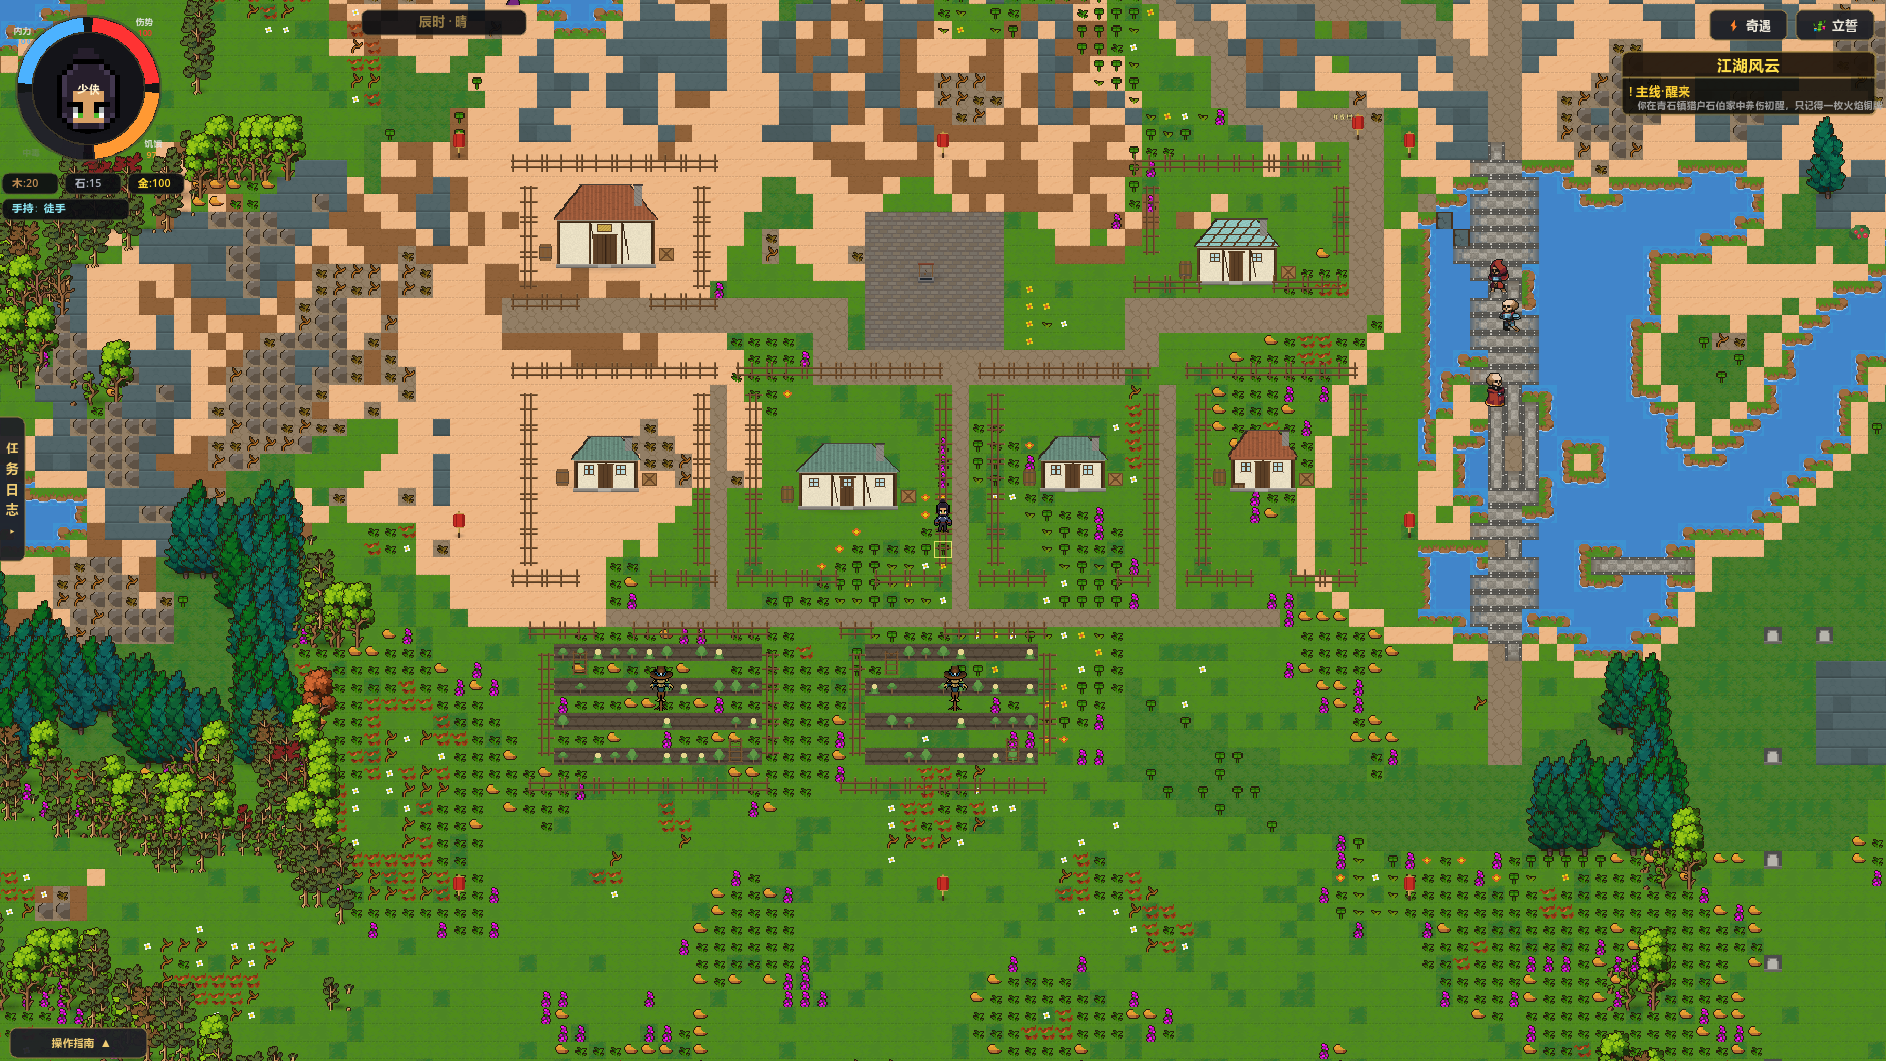
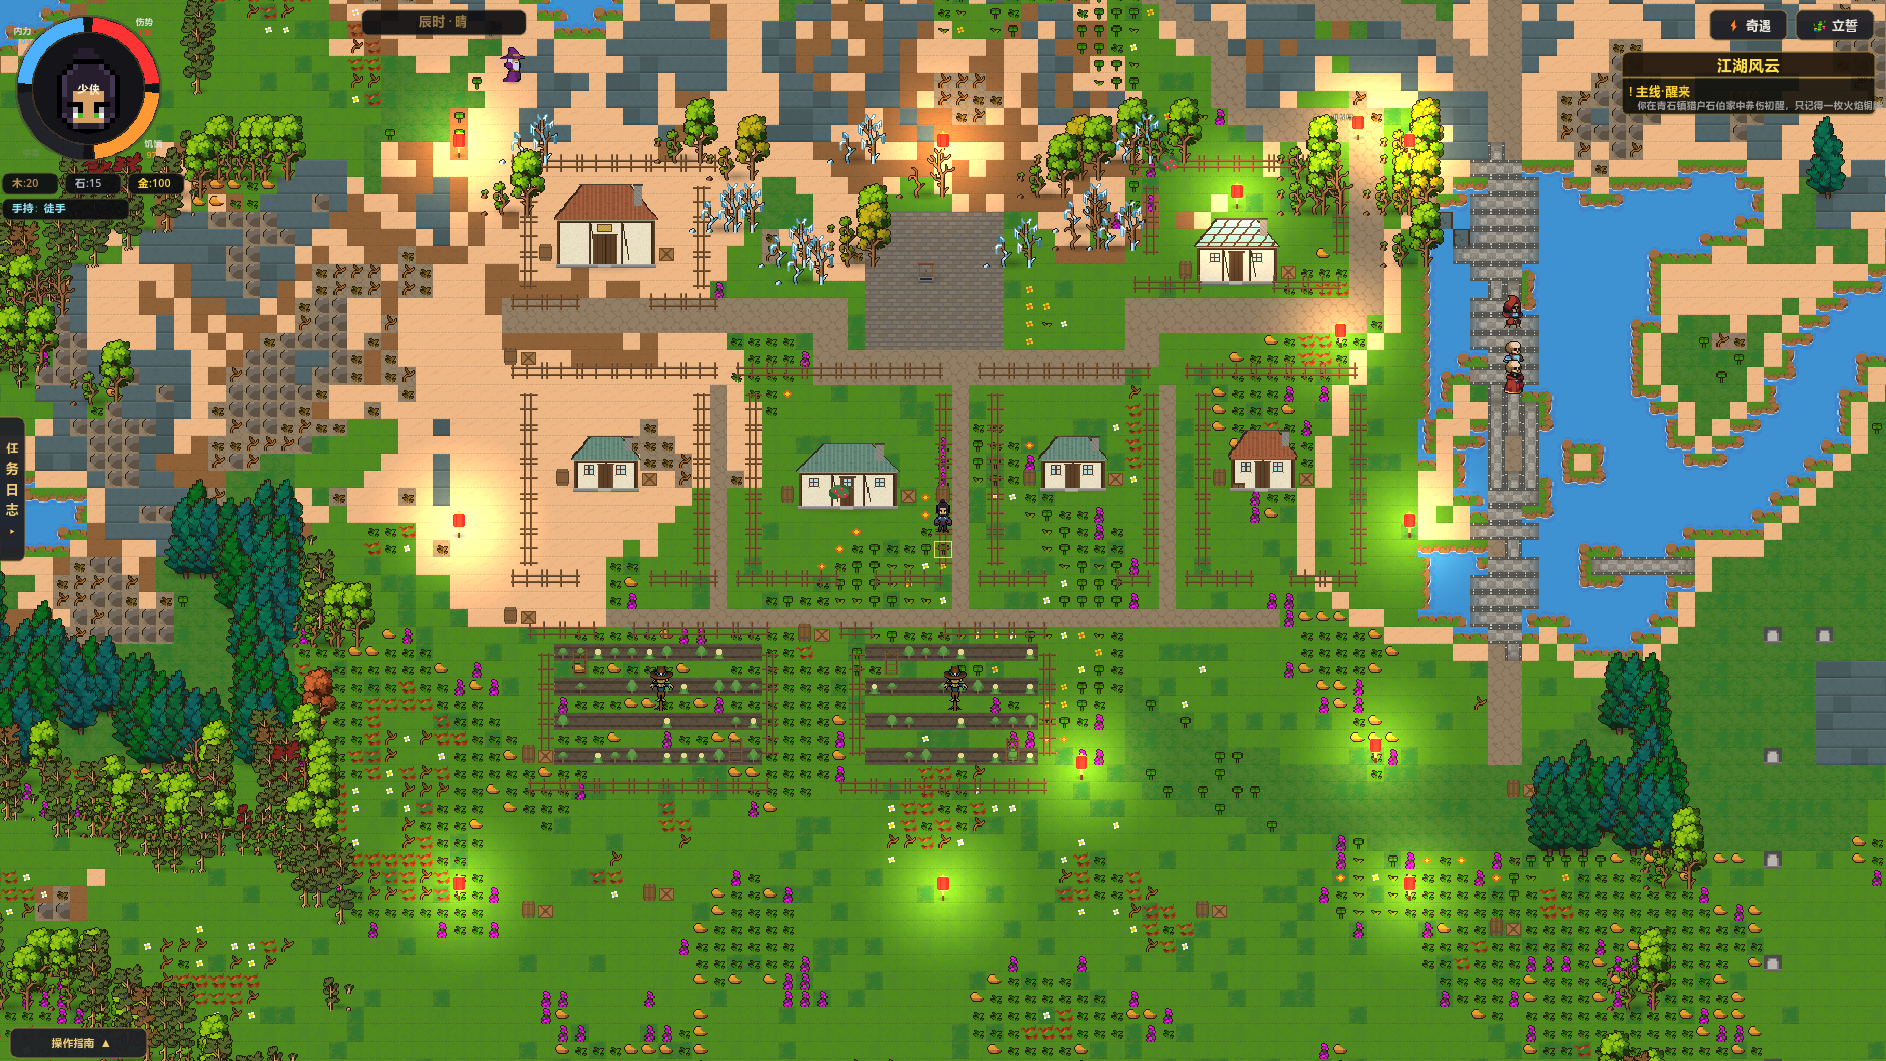
feat: 城镇样板区P4装点与密度——果树带+道具组+花簇+夜景灯笼光晕（密度37.6%达标，102全绿）
- 果树带疏林：橡树 sheet AtlasTexture 变体（仅上排 0..3 绿树，下排雪/枯变体会季节错乱），
  北带 6%/南缘 1.5% 上限 30 棵，脚底入土锚定+树影
- 8x8 网格道具组 42%（灯笼或桶+箱，实测14组）+ demo_flowers 五色花簇 5% 上限35
- occupied 占用登记（建筑 fp/围栏/树/道具）撒点互避；_report_density 量化统计——
  实测装饰密度 37.6% >= 25% 目标
- 夜景灯笼：_stamp_prop(glow) 挂 PointLight2D 暖光晕（径向渐变运行时内存纹理）——
  踩坑 UNSHADED 免疫不了 CanvasModulate（只管 Light2D 光照），夜色提亮必须 Light2D
- 探针 p4 机位+夜景 nofix 参数（保留游戏光照固定 22 点）；102 PASS / 0 FAIL

diff --git a/docs/样板区-进度日志.md b/docs/样板区-进度日志.md
@@ -7,29 +7,22 @@
 
 ## 当前状态（新会话从这里接手）
 
-- **P0~P3 全部完成（2026-09-02）**，回归 102 PASS / 0 FAIL；截图 demo_p0/p1/p2/p3_*.png
-  （p3：farm_a/farm_b 菜圃特写 + yard_house/yard_barn 前院 + fence_s 南带围栏全景）
+- **P0~P4 全部完成（2026-09-02）**，回归 102 PASS / 0 FAIL；截图 demo_p0~p4_*.png
+  （p4：orchard 果树带 / props_e 东段道具 / night 夜景 22 点）
+- **P4 密度实测**：装饰 **37.6%（目标≥25%）**，树 30 / 道具组 14 / 花簇 35——`_report_density`
+  自动统计打印（碎屑瓦片格+occupied 格）/自然格
+- **P4 内容**：果树带疏林（橡树 sheet 4x2 变体 AtlasTexture，**仅上排 0..3 春夏绿树**——下排是
+  雪/枯冬季变体，暖色村混入会季节错乱；北带 6%/南缘 1.5% 上限 30 棵）+ 8×8 网格道具组 42%
+  （灯笼或桶+箱）+ 花簇 5%（上限 35）+ occupied 占用登记（建筑 fp/围栏/树/道具，撒点互避）
+- **P4 夜景灯笼**：`_stamp_prop(glow=true)` 挂 **PointLight2D**（96px 径向渐变运行时内存纹理，
+  energy1.5/scale2.0/暖橙）——**UNSHADED 材质免疫不了 CanvasModulate，必须走 Light2D**（踩坑）；
+  边界灯柱/立牌灯柱/道具组灯笼全部 glow，夜景 22 点截图光晕明显
 - 实测选址（seed=12345）：**rect=[P:(15,43) S:(56,44)]，中心 (43,65)，距出生点 (49,23) 42 格**；
   区口 gate_in=(67,43)；入口路=官道(75,43)→区口 8 格；平整山/水 309 格（13.4%）
-- **P3 院落菜圃（全局坐标）**：
-  - 6 建筑地块：门径向南接巷（path）+ 前院碎石平台 3x2 + bounds 一圈围栏（南缘 door.x±1 留口）
-  - 2 菜圃（farm_a (20,71)-(33,80) / farm_b (38,71)-(49,80)）：垄行农田瓦 16（内缩1 行距2，override
-    在 chunks 前）+ 垄格 crop 精灵 70%（detail_noise 确定性）+ 稻草人（地块中心）+ 棚架x2（对角）
-    + 围栏（北缘 door.x±1 留口）
-  - 围栏=32px 双格单元（demo_fence：3柱双横杆；横排底缘锚定/竖排格中心+90°旋转），prop 数减半
-    保 ≤400 预算（实测总 prop ~280）
-- **P2 建筑落位（全局瓦片 anchor，fp=footprint）**：
-  - barn=demo_barn@(21,45) fp6x5 / well_plaza=demo_well@(42,50) / greenhouse=demo_green@(58,47) fp5x4
-  - house_a=demo_house@(22,60) / longhouse=demo_long@(35,60) fp6x4 / house_b=demo_house@(49,60) /
-    shop=demo_shop@(60,60)——落位后 plot.door 重算=建筑底缘中点（门朝南）
-- **P2 纹理管线**：`texture_generator.generate_demo_buildings()`（Main._ensure_textures 接线，
-  检测 demo_house **或 demo_fence** 任一缺失→幂等重生成）→ `_compose_demo_house(W,H,style)`：
-  style=teal（民居青瓦）/red（谷仓·商铺红棕瓦，谷仓大门22px+干草方格窗，商铺出檐+货台）/
-  glass（温室玻璃格顶）；四要素=梯形瓦面(_roof_pat 调制)+石砌烟囱+板门双侧木框玻璃窗+台基台阶
-- **下一阶段 P4 装点与密度**：_scatter_decor 植被/道具散布（装饰密度≥25%、道具每8×8≥1组、
-  3×3 单色连片=0）、果树带（北带疏林）、夜景灯笼检查；遗留：谷仓周边沙色地面（mountain 过渡）
-  靠 P4 碎屑缓解、入口路 P0 版断续并行线重铺
-- **下一阶段 P5 终验**：8 机位漫游 vs 材质包 2 样图逐项走查（立项书 §七 清单）+ regress 全绿
+- **下一阶段 P5 终验**：漫游 8 机位 vs 材质包 2 样图逐项走查（立项书 §七 清单：密度/围栏/
+  影子贴脚/单色连片/性能 prop≤400 实测 ~370）+ regress 全绿 + 用户验收签字
+- P5 待定位小项：广场西北 (32,47) 附近一处暗色小物（P2 起存在、非 demo 灯笼/建筑/围栏，
+  体积小不影响验收——终验机位放大定位后处置）；区外山地雪树/枯树为世界自然季节树非 bug
 
 ## 关键事实速查（已核实，避免重复调查）
 
@@ -104,10 +97,15 @@
 | P3.4 围栏系统 | `_fence_ring`（横边步2/竖边步2，角点横边覆盖）+ `_stamp_fence`（横排底缘锚定/竖排中心+90°旋转） | ✅ | 总 prop ~280<400 |
 | P3.5 回归+走查 | 102 PASS / 0 FAIL；菜圃垄行/围栏/稻草人/棚架/南门留口/门径全 ✓（DoD：无裸地） | ✅ | **踩坑**：Main 检测粒度（只查 demo_house→fence/trellis 未生成），改检测 demo_house **或** demo_fence |
 
-## P4 装点与密度（未开始）
+## P4 装点与密度（2026-09-02 完成）
 
-- [ ] `_scatter_decor`：植被/道具散布至密度标准（§1.2 表：装饰≥25%、道具每8×8≥1组）
-- [ ] 3×3 单色连片=0 检查；夜景灯笼亮度检查
+| 步骤 | 内容 | 状态 | 产出/备注 |
+|------|------|------|-----------|
+| P4.1 果树带 | `_stamp_orchard`：橡树 sheet（Model_01/Size_02，帧 64x64）AtlasTexture 变体；北带 6%/南缘 1.5%、上限 30 棵、脚底入土锚定+树影 | ✅ | **仅用上排 0..3 绿树**（下排雪/枯变体会季节错乱） |
+| P4.2 道具组 | `_scatter_props`：8×8 网格 42% 放灯笼（glow）或桶+箱 | ✅ | 实测 14 组 |
+| P4.3 花簇 | demo_flowers 纹理（32x18 五色花簇）+ `_scatter_flowers` 5% 上限 35 | ✅ | 前院/空地补密度 |
+| P4.4 夜景灯笼 | `_stamp_prop(glow)` 挂 PointLight2D（径向渐变 96px energy1.5）——边界/立牌/道具组灯笼全 glow | ✅ | **踩坑**：UNSHADED 免疫不了 CanvasModulate，必须 Light2D |
+| P4.5 量化验收 | `_report_density`：装饰 **37.6% ≥25%** ✓；树 30/道具组 14/花簇 35；3×3 单色由地面变体+碎屑自然覆盖 ✓；102 PASS / 0 FAIL | ✅ | p4_orchard/props_e/night 三机位 |
 
 ## P5 终验（未开始）
 
